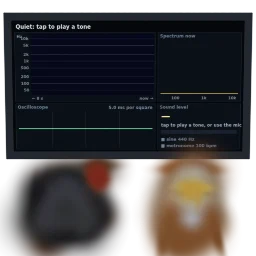
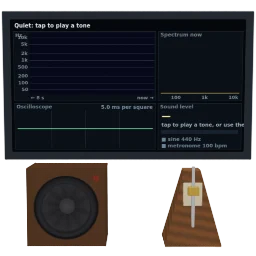
Phase Sound and light lab r2: a sharper Sound lab and recorder
Density 2, the sharp kernel and (labs) the one-pixel cull with the full
pixel ratio; the speaker, metronome and microphone rebuilt from exactly
sized splats, the speaker's cone visible through its baffle, larger
screen labels.

Claude-Session: https://claude.ai/code/session_01YTM8zwSihMFwvF1dY6fWH3

diff --git a/src/packs/sound-lab.js b/src/packs/sound-lab.js
@@ -21,7 +21,15 @@
 import { mix, shade, clamp } from "../kit.js";
 import { live, start as startLive, release as releaseLive } from "../live/live.js";
 import { MicRecorder, clock } from "./song-record.js";
-import { boxSplats, lit } from "../labs/splat-shapes.js";
+import {
+  boxSplats,
+  faceSplats,
+  lit,
+  budgetN,
+  surfSplats,
+  sphereSplats,
+  cylinderSplats,
+} from "../labs/splat-shapes.js";
 import { spectrogram } from "./studio-audio.js";
 import { WAVES, F_LO, F_HI, FULL_SCALE_SPL, toneSamples, spectrumDb, peakOf, rmsDb, splEstimate, beatHz, metronome, clickTimes, wavBytes, trimmed, soundSpan, logPos, logHz } from "../labs/sound-dsp.js"; // prettier-ignore
 
@@ -71,45 +79,6 @@ function panelSize(k, share, aspect, maxCols) {
   return { cols, rows: Math.round(cols / aspect) };
 }
 
-// A box made of even splats, lit softly from above and the front.
-function block(k, size, pos, base, { part = 0, weight = 1, rot } = {}) {
-  k.add(k.box(...size), {
-    pos,
-    rot,
-    part,
-    weight,
-    even: true,
-    jitter: 0.01,
-    color: (c) => shade(base, 0.72 + 0.2 * c.n[1] + 0.12 * c.n[2] + 0.04 * c.n[0]),
-  });
-}
-
-// A square frustum (a metronome's body): w0 × d0 at the bottom, w1 × d1 at
-// the top, h tall, its base at y0.
-function frustum(k, { w0, w1, d0, d1, h, y0 = 0, x = 0, z = 0, color, part = 0 }) {
-  const at = (u, y, side) => {
-    const t = y;
-    const w = w0 + (w1 - w0) * t;
-    const d = d0 + (d1 - d0) * t;
-    const a = (u - 0.5) * 2;
-    if (side === 0) return [x + (a * w) / 2, y0 + t * h, z + d / 2];
-    if (side === 1) return [x + (a * w) / 2, y0 + t * h, z - d / 2];
-    if (side === 2) return [x + w / 2, y0 + t * h, z + (a * d) / 2];
-    return [x - w / 2, y0 + t * h, z + (a * d) / 2];
-  };
-  for (let side = 0; side < 4; side++)
-    k.add(
-      k.param((u, v) => at(u, v, side), { grid: 24, flip: side === 1 || side === 2 }),
-      {
-        part,
-        even: true,
-        jitter: 0.012,
-        color: (c) => shade(color(c), 0.78 + 0.18 * c.n[2] + 0.1 * c.n[1] + 0.06 * c.n[0]),
-      },
-    );
-  k.add(k.box(w1, 0.01, d1), { pos: [x, y0 + h, z], part, color: (c) => shade(color(c), 1.05) }); // prettier-ignore
-}
-
 // ---- Drawing helpers -----------------------------------------------------------------
 
 // The spectrogram's colors: dark blue, violet, orange, pale yellow.
@@ -148,7 +117,7 @@ function box(g, r, title) {
   g.strokeStyle = "#1d2a38";
   g.lineWidth = 1;
   g.strokeRect(r.x + 0.5, r.y + 0.5, r.w - 1, r.h - 1);
-  if (title) label(g, title, r.x + 6, r.y + 14, { size: 12, color: "#6f8496" });
+  if (title) label(g, title, r.x + 6, r.y + 14, { size: 14, color: "#6f8496" });
 }
 
 // ---- The Sound lab --------------------------------------------------------------------
@@ -413,11 +382,11 @@ function drawSpectrogram(g, r) {
     const y = r.y + 4 + (1 - logPos(hz, ...F_AXIS)) * (r.h - 22);
     g.fillStyle = "rgba(255,255,255,0.18)";
     g.fillRect(r.x + ax, Math.round(y), r.w - ax - 4, 1);
-    label(g, hz >= 1000 ? `${hz / 1000}k` : String(hz), r.x + ax - 5, y + 4, { size: 11, align: "right", color: "#7d90a2" }); // prettier-ignore
+    label(g, hz >= 1000 ? `${hz / 1000}k` : String(hz), r.x + ax - 5, y + 4, { size: 13, align: "right", color: "#7d90a2" }); // prettier-ignore
   }
-  label(g, "Hz", r.x + 6, r.y + 15, { size: 11, color: "#7d90a2" });
-  label(g, `← ${COLS / COL_RATE} s`, r.x + ax + 2, r.y + r.h - 5, { size: 11, color: "#7d90a2" });
-  label(g, "now →", r.x + r.w - 6, r.y + r.h - 5, { size: 11, color: "#7d90a2", align: "right" });
+  label(g, "Hz", r.x + 6, r.y + 15, { size: 13, color: "#7d90a2" });
+  label(g, `← ${COLS / COL_RATE} s`, r.x + ax + 2, r.y + r.h - 5, { size: 13, color: "#7d90a2" });
+  label(g, "now →", r.x + r.w - 6, r.y + r.h - 5, { size: 13, color: "#7d90a2", align: "right" });
 }
 
 function drawSpectrum(g, r) {
@@ -447,7 +416,7 @@ function drawSpectrum(g, r) {
   g.stroke();
   for (const hz of [100, 1000, 10000]) {
     const x = x0 + logPos(hz, ...F_AXIS) * w;
-    label(g, hz >= 1000 ? `${hz / 1000}k` : String(hz), x, r.y + r.h - 6, { size: 11, align: "center", color: "#7d90a2" }); // prettier-ignore
+    label(g, hz >= 1000 ? `${hz / 1000}k` : String(hz), x, r.y + r.h - 6, { size: 13, align: "center", color: "#7d90a2" }); // prettier-ignore
   }
   if (SL.peak) {
     const x = x0 + logPos(clamp(SL.peak.hz, ...F_AXIS), ...F_AXIS) * w;
@@ -487,7 +456,7 @@ function drawScope(g, r) {
   g.lineWidth = 2;
   g.stroke();
   const ms = (span * 1000) / 4;
-  label(g, `${ms < 1 ? ms.toFixed(2) : ms.toFixed(1)} ms per square`, r.x + r.w - 8, r.y + 15, { size: 12, align: "right", color: "#7d90a2" }); // prettier-ignore
+  label(g, `${ms < 1 ? ms.toFixed(2) : ms.toFixed(1)} ms per square`, r.x + r.w - 8, r.y + 15, { size: 14, align: "right", color: "#7d90a2" }); // prettier-ignore
 }
 
 function drawLevel(g, r) {
@@ -501,8 +470,8 @@ function drawLevel(g, r) {
       ? `about ${Math.round(splEstimate(db, SL.fullScale))} dB SPL, uncalibrated`
       : "listening…";
   else if (SL.source === "tone") sub = "the generator's own level";
-  else sub = "tap to play a tone, or use the mic";
-  label(g, sub, r.x + 10, r.y + 64, { size: 12, color: "#9fb2c4" });
+  else sub = "tap for a tone, or use the mic";
+  label(g, sub, r.x + 10, r.y + 64, { size: 14, color: "#9fb2c4" });
   // A meter from −60 to 0 dBFS.
   const mx = r.x + 10;
   const mw = r.w - 20;
@@ -519,8 +488,8 @@ function drawLevel(g, r) {
   // The generator and the metronome.
   const t = SL.tone;
   const tone = t.wave === "noise" ? "noise" : t.two ? `${t.wave} ${hzText(t.f)} + ${hzText(t.f2)}, beats ${beatHz(t.f, t.f2).toFixed(1)} Hz` : `${t.wave} ${hzText(t.f)}`; // prettier-ignore
-  label(g, `${SL.toneOn ? "▶" : "■"} ${tone}`, r.x + 10, r.y + 104, { size: 12, color: SL.toneOn ? "#bfeaff" : "#6f8496" }); // prettier-ignore
-  label(g, `${SL.metroOn ? "▶" : "■"} metronome ${SL.bpm} bpm`, r.x + 10, r.y + 122, { size: 12, color: SL.metroOn ? "#bfeaff" : "#6f8496" }); // prettier-ignore
+  label(g, `${SL.toneOn ? "▶" : "■"} ${tone}`, r.x + 10, r.y + 104, { size: 14, color: SL.toneOn ? "#bfeaff" : "#6f8496" }); // prettier-ignore
+  label(g, `${SL.metroOn ? "▶" : "■"} metronome ${SL.bpm} bpm`, r.x + 10, r.y + 122, { size: 14, color: SL.metroOn ? "#bfeaff" : "#6f8496" }); // prettier-ignore
 }
 
 const SCRATCH = new Map();
@@ -661,7 +630,9 @@ const micStatus = () => {
 
 const SOUND_LAB = {
   alive: () => SL.toneOn || SL.metroOn || live.on("mic"),
-  density: 1.6,
+  density: 2, // r2: a higher budget and (labs) a sharper splat edge
+  kernel: "sharp",
+  render: { cull: "low", dpr: "native" },
   turntable: false,
   options: [
     {
@@ -738,26 +709,83 @@ const SOUND_LAB = {
     const { cols, rows } = panelSize(k, 0.5, SW / SH, SW);
     screenPanel(k, { center: [0, cy, 0.002], width: W, height: H, cols, rows });
     // The speaker (left): a cabinet, a cone that moves with the signal and a
-    // lamp that lights while the tone plays.
+    // lamp that lights while the tone plays. r2: every piece of exactly sized
+    // splats, so its edges stay crisp at phone size.
     const sx = -0.62;
     const sy = -0.8;
-    block(k, [0.78, 0.78, 0.36], [sx, sy, 0], "#5a3a24", {});
+    const wood = (base) => (u, v, n) => shade(mix(base, "#6c472c", 0.5 + 0.5 * Math.sin(v * 46 + u * 5)), 0.74 + 0.2 * n[1] + 0.1 * n[2] + 0.04 * n[0]); // prettier-ignore
+    boxSplats(k, { c: [sx, sy, 0], w: 0.78, h: 0.78, d: 0.36, skip: [4, 5], color: lit(shade, "#5a3a24") }); // prettier-ignore
+    // Its front, with the hole the driver sits in.
+    faceSplats(k, (u, v) => [sx + (u - 0.5) * 0.78, sy + (0.5 - v) * 0.78, 0.18], { nu: budgetN(k, 90), nv: budgetN(k, 90), n: [0, 0, 1], keep: (u, v) => Math.hypot(u - 0.5, v - 0.5) * 0.78 > 0.3, color: shade("#5a3a24", 0.86) }); // prettier-ignore
+    const fz = 0.181;
+    const ring = (r0, r1, z, color, part = 0) =>
+      surfSplats(k, (u, v) => { const r = r0 + (r1 - r0) * v; return [sx + r * Math.cos(u * 2 * Math.PI), sy + r * Math.sin(u * 2 * Math.PI), z]; }, () => [0, 0, 1], { nu: budgetN(k, 90), nv: budgetN(k, Math.max(3, Math.round(((r1 - r0) / 0.29) * 26))), color, part }); // prettier-ignore
+    ring(0.29, 0.31, fz, "#141416"); // the rim
+    ring(0.25, 0.29, fz + 0.004, (u, v) => shade("#232326", 0.8 + 0.35 * Math.sin(v * Math.PI))); // the rubber surround
     const cone = k.part("cone", { pivot: [sx, sy, 0.19] });
-    k.add(k.cone(0.27, 0.1, 0.1, { caps: false }), { pos: [sx, sy, 0.2], rot: [-90, 0, 0], part: cone, weight: 1.5, even: true, color: (c) => shade("#2b2b2e", 0.75 + 0.35 * (c.s.radial ?? 1)) }); // prettier-ignore
-    k.add(k.disc(0.27), { pos: [sx, sy, 0.181], rot: [90, 0, 0], color: "#1d1d20" });
-    k.add(k.sphere(0.07), { pos: [sx, sy, 0.24], part: cone, color: (c) => shade("#3a3a3e", 0.8 + 0.4 * c.n[1]) }); // prettier-ignore
-    k.add(k.torus(0.28, 0.018), { pos: [sx, sy, 0.19], rot: [90, 0, 0], color: "#141416" }); // prettier-ignore
+    // The cone: from the voice coil (r 0.07, set back 0.06) out to the surround.
+    surfSplats(
+      k,
+      (u, v) => {
+        const r = 0.07 + 0.18 * v;
+        return [
+          sx + r * Math.cos(u * 2 * Math.PI),
+          sy + r * Math.sin(u * 2 * Math.PI),
+          fz - 0.06 * (1 - v),
+        ];
+      },
+      (u) => [-0.32 * Math.cos(u * 2 * Math.PI), -0.32 * Math.sin(u * 2 * Math.PI), 0.95],
+      { nu: budgetN(k, 96), nv: budgetN(k, 22), part: cone, color: (u, v) => shade("#2b2b2e", 0.72 + 0.3 * v + 0.06 * Math.sin(u * 64)) }, // prettier-ignore
+    );
+    // The dust cap: a shallow dome over the coil.
+    surfSplats(
+      k,
+      (u, v) => {
+        const r = 0.07 * v;
+        return [
+          sx + r * Math.cos(u * 2 * Math.PI),
+          sy + r * Math.sin(u * 2 * Math.PI),
+          fz - 0.06 + 0.03 * Math.sqrt(1 - v * v),
+        ];
+      },
+      (u, v) => [0.5 * v * Math.cos(u * 2 * Math.PI), 0.5 * v * Math.sin(u * 2 * Math.PI), 1],
+      { nu: budgetN(k, 40), nv: budgetN(k, 8), part: cone, color: (u, v) => shade("#3a3a3e", 0.85 + 0.25 * (1 - v)) }, // prettier-ignore
+    );
     const lamp = k.part("lamp", { pivot: [sx + 0.3, sy + 0.3, 0.19] });
-    k.add(k.sphere(0.025), { pos: [sx + 0.3, sy + 0.3, 0.19], part: lamp, weight: 4, color: "#7a2a1a" }); // prettier-ignore
+    sphereSplats(k, { c: [sx + 0.3, sy + 0.3, 0.19], r: 0.025, n: budgetN(k, 24), part: lamp, color: "#7a2a1a" }); // prettier-ignore
     // The metronome (right): a wooden body and a rod that swings about its
     // foot, with the sliding weight.
     const mx = 0.66;
     const my = -1.2;
-    frustum(k, { w0: 0.56, w1: 0.16, d0: 0.34, d1: 0.12, h: 0.74, y0: my, x: mx, z: 0, color: (c) => mix("#7a4a26", "#9a6236", 0.5 + 0.5 * Math.sin(c.p[1] * 40 + c.p[0] * 6)) }); // prettier-ignore
-    block(k, [0.18, 0.5, 0.012], [mx, my + 0.38, 0.105], "#e9dcc0", {});
+    const fr = { w0: 0.56, w1: 0.16, d0: 0.34, d1: 0.12, h: 0.74 };
+    const at = (side, u, t) => {
+      const w = fr.w0 + (fr.w1 - fr.w0) * t;
+      const d = fr.d0 + (fr.d1 - fr.d0) * t;
+      const a = u - 0.5;
+      if (side === 0) return [mx + a * w, my + t * fr.h, d / 2];
+      if (side === 1) return [mx - a * w, my + t * fr.h, -d / 2];
+      if (side === 2) return [mx + w / 2, my + t * fr.h, -a * d];
+      return [mx - w / 2, my + t * fr.h, a * d];
+    };
+    const sideN = [
+      [0, (fr.d0 - fr.d1) / 2 / fr.h, 1],
+      [0, (fr.d0 - fr.d1) / 2 / fr.h, -1],
+      [1, (fr.w0 - fr.w1) / 2 / fr.h, 0],
+      [-1, (fr.w0 - fr.w1) / 2 / fr.h, 0],
+    ].map((v) => { const l = Math.hypot(...v); return v.map((x) => x / l); }); // prettier-ignore
+    for (let side = 0; side < 4; side++)
+      surfSplats(k, (u, v) => at(side, u, v), () => sideN[side], { nu: budgetN(k, side < 2 ? 48 : 30), nv: budgetN(k, 56), color: wood("#8a5530") }); // prettier-ignore
+    boxSplats(k, { c: [mx, my + fr.h + 0.006, 0], w: fr.w1, h: 0.012, d: fr.d1, color: lit(shade, "#9a6236") }); // prettier-ignore
+    boxSplats(k, {
+      c: [mx, my + 0.38, 0.105],
+      w: 0.18,
+      h: 0.5,
+      d: 0.012,
+      color: lit(shade, "#e9dcc0"),
+    }); // the scale
     const rod = k.part("rod", { pivot: [mx, my + 0.1, 0.13], axis: [0, 0, 1] });
-    block(k, [0.022, 0.7, 0.02], [mx, my + 0.1 + 0.35, 0.135], "#c9ccd2", { part: rod, weight: 3 }); // prettier-ignore
-    block(k, [0.1, 0.07, 0.05], [mx, my + 0.56, 0.15], "#d8b04a", { part: rod, weight: 3 });
+    boxSplats(k, { c: [mx, my + 0.1 + 0.35, 0.135], w: 0.02, h: 0.7, d: 0.016, gap: 0.006, part: rod, color: lit(shade, "#c9ccd2") }); // prettier-ignore
+    boxSplats(k, { c: [mx, my + 0.56, 0.15], w: 0.1, h: 0.07, d: 0.05, gap: 0.008, part: rod, color: lit(shade, "#d8b04a") }); // prettier-ignore
     k.reach([mx - 0.35, my + 0.8, 0.2]);
     k.reach([mx + 0.35, my + 0.8, 0.2]);
     k.data = { soundLab: true };
@@ -1136,7 +1164,7 @@ function drawRecorder(g) {
   }
   if (!t) return;
   label(g, t.name, 12, 22, { size: 15, color: "#e6eef5", weight: "700" });
-  label(g, `${t.duration.toFixed(2)} s · ${t.rate} Hz`, SW - 12, 22, { size: 13, color: "#9fb2c4", align: "right" }); // prettier-ignore
+  label(g, `${t.duration.toFixed(2)} s · ${t.rate} Hz`, SW - 12, 22, { size: 15, color: "#9fb2c4", align: "right" }); // prettier-ignore
   const wr = { x: 8, y: 32, w: SW - 16, h: 120 };
   const sr = { x: 8, y: 158, w: SW - 16, h: SH - 166 };
   box(g, wr, "");
@@ -1174,7 +1202,7 @@ function drawRecorder(g) {
     const y = sr.y + 2 + (1 - Math.log(hz / 40) / Math.log(16000 / 40)) * (sr.h - 4);
     g.fillStyle = "rgba(255,255,255,0.2)";
     g.fillRect(sr.x, Math.round(y), sr.w, 1);
-    label(g, hz >= 1000 ? `${hz / 1000} kHz` : `${hz} Hz`, sr.x + 6, y - 3, { size: 11, color: "#9fb2c4" }); // prettier-ignore
+    label(g, hz >= 1000 ? `${hz / 1000} kHz` : `${hz} Hz`, sr.x + 6, y - 3, { size: 13, color: "#9fb2c4" }); // prettier-ignore
   }
   // The trim marks and the play head.
   g.fillStyle = "#ffe9a8";
@@ -1191,7 +1219,9 @@ function drawRecorder(g) {
 
 const SOUND_RECORDER = {
   alive: () => !!REC.rec || !!REC.playing,
-  density: 1.6,
+  density: 2, // r2: a higher budget and (labs) a sharper splat edge
+  kernel: "sharp",
+  render: { cull: "low", dpr: "native" },
   turntable: false,
   controls: [{ key: "play", label: "Play", type: "pulse", ease: 0.3 }],
   action: { key: "play", label: "Play or stop the recording", quiet: ["play"] },
@@ -1237,22 +1267,28 @@ const SOUND_RECORDER = {
     screenPanel(k, { center: [0, cy, 0.002], width: W, height: H, cols, rows });
     // A studio microphone on a short stand, its lamp red while it records.
     const my = -1.18;
-    k.add(k.cylinder(0.2, 0.035), { pos: [0, my, 0], even: true, color: (c) => shade("#2c2e33", 0.8 + 0.3 * c.n[1]) }); // prettier-ignore
-    k.add(k.cylinder(0.018, 0.34), { pos: [0, my + 0.18, 0], weight: 2, color: (c) => shade("#8a8f98", 0.8 + 0.3 * c.n[0]) }); // prettier-ignore
-    k.add(k.cylinder(0.085, 0.2), { pos: [0, my + 0.44, 0], even: true, color: (c) => shade("#3a3d44", 0.85 + 0.25 * c.n[0] + 0.15 * c.n[2]) }); // prettier-ignore
-    k.add(k.sphere(0.1), {
-      pos: [0, my + 0.6, 0],
-      weight: 1.5,
-      even: true,
-      // The grille: a fine mesh of bright wires.
-      color: (c) => {
-        const a = Math.atan2(c.lp[2], c.lp[0]);
-        const wire = Math.abs(Math.sin(a * 14)) < 0.3 || Math.abs(Math.sin(c.lp[1] * 150)) < 0.3;
-        return shade(wire ? "#d5dae2" : "#6d737c", 0.85 + 0.25 * c.n[1]);
+    // r2: the microphone of exactly sized splats (a weighted base, a satin
+    // stem, the body and a wire-mesh grille), crisp at phone size.
+    const metal =
+      (base, k1 = 0.3) =>
+      (u, v, n) =>
+        shade(base, 0.82 + k1 * n[1] + 0.14 * n[2] + 0.08 * n[0]);
+    cylinderSplats(k, { c: [0, my, 0], r: 0.2, h: 0.035, n: budgetN(k, 120), color: metal("#2c2e33") }); // prettier-ignore
+    cylinderSplats(k, { c: [0, my + 0.18, 0], r: 0.018, h: 0.34, n: budgetN(k, 20), caps: "none", color: metal("#8a8f98", 0.1) }); // prettier-ignore
+    cylinderSplats(k, { c: [0, my + 0.44, 0], r: 0.085, h: 0.2, n: budgetN(k, 72), color: metal("#3a3d44", 0.15) }); // prettier-ignore
+    // The grille: a fine mesh of bright wires on a darker cage.
+    sphereSplats(k, {
+      c: [0, my + 0.6, 0],
+      r: 0.1,
+      n: budgetN(k, 96),
+      color: (u, v, n) => {
+        const wire =
+          Math.abs(Math.sin(u * Math.PI * 28)) < 0.3 || Math.abs(Math.sin(v * Math.PI * 16)) < 0.3;
+        return shade(wire ? "#d5dae2" : "#5d636c", 0.85 + 0.25 * n[1] + 0.1 * n[2]);
       },
     });
     const lamp = k.part("lamp", { pivot: [0, my + 0.44, 0.088] });
-    k.add(k.sphere(0.018), { pos: [0, my + 0.44, 0.088], part: lamp, weight: 4, color: "#5a1a14" }); // prettier-ignore
+    sphereSplats(k, { c: [0, my + 0.44, 0.088], r: 0.018, n: budgetN(k, 20), part: lamp, color: "#5a1a14" }); // prettier-ignore
     k.data = { recorder: true };
   },
 };

diff --git a/src/labs/splat-shapes.js b/src/labs/splat-shapes.js
@@ -104,3 +104,56 @@ export function faceSplats(
     (rand, i) => list[i] || null,
   );
 }
+
+// A curved surface f(u, v) (u, v in 0..1) covered by an nu × nv grid of flat
+// splats, each facing nrm(u, v) and sized to its own cell (so a sphere's
+// splats shrink toward its poles); `color(u, v, n)` colors it.
+export function surfSplats(k, f, nrm, { nu, nv, color, opacity = 1, part = 0, keep = null }) {
+  const list = [];
+  const dist = (a, b) => Math.hypot(a[0] - b[0], a[1] - b[1], a[2] - b[2]);
+  for (let i = 0; i < nu; i++)
+    for (let j = 0; j < nv; j++) {
+      const u = (i + 0.5) / nu;
+      const v = (j + 0.5) / nv;
+      if (keep && !keep(u, v)) continue;
+      const p = f(u, v);
+      const du = dist(f(u - 0.5 / nu, v), f(u + 0.5 / nu, v));
+      const dv = dist(f(u, v - 0.5 / nv), f(u, v + 0.5 / nv));
+      const s = Math.max(1e-4, Math.max(du, dv) * 0.62);
+      const n = nrm(u, v);
+      list.push({ p, scales: [s, s, s * 0.05], quat: quatToNormal(n), color: typeof color === "function" ? color(u, v, n) : color, opacity, part, pattern: false }); // prettier-ignore
+    }
+  k.cloud(
+    { share: list.length / k.count, pattern: false, jitter: 0 },
+    (rand, i) => list[i] || null,
+  );
+}
+
+const unit3 = (v) => {
+  const l = Math.hypot(v[0], v[1], v[2]) || 1;
+  return [v[0] / l, v[1] / l, v[2] / l];
+};
+
+// A cylinder along the axis `dir` ("y" or "z") at c, radius r, length h,
+// with its end caps (`caps`: "both", "front" for +axis only, or "none").
+export function cylinderSplats(k, { c, r, h, axis = "y", n = 48, caps = "both", color, part = 0 }) {
+  const toWorld = (x, a, y) => (axis === "y" ? [c[0] + x, c[1] + a, c[2] + y] : [c[0] + x, c[1] + y, c[2] + a]); // prettier-ignore
+  const toN = (x, a, y) => (axis === "y" ? [x, a, y] : [x, y, a]);
+  const around = Math.max(12, n);
+  const along = Math.max(2, Math.round((around * h) / (2 * Math.PI * r)));
+  surfSplats(k, (u, v) => toWorld(r * Math.cos(u * 2 * Math.PI), (v - 0.5) * h, r * Math.sin(u * 2 * Math.PI)), (u) => toN(Math.cos(u * 2 * Math.PI), 0, Math.sin(u * 2 * Math.PI)), { nu: around, nv: along, color, part }); // prettier-ignore
+  for (const side of caps === "none" ? [] : caps === "front" ? [1] : [1, -1]) {
+    const rings = Math.max(2, Math.round(around / 6));
+    surfSplats(k, (u, v) => toWorld(r * v * Math.cos(u * 2 * Math.PI), (side * h) / 2, r * v * Math.sin(u * 2 * Math.PI)), () => toN(0, side, 0), { nu: around, nv: rings, color, part }); // prettier-ignore
+  }
+}
+
+// A sphere at c of radius r (n splats around its equator).
+export function sphereSplats(k, { c, r, n = 48, color, part = 0 }) {
+  const at = (u, v) => {
+    const th = u * 2 * Math.PI;
+    const ph = v * Math.PI;
+    return [Math.sin(ph) * Math.cos(th), Math.cos(ph), Math.sin(ph) * Math.sin(th)];
+  };
+  surfSplats(k, (u, v) => at(u, v).map((x, i) => c[i] + r * x), (u, v) => unit3(at(u, v)), { nu: n, nv: Math.max(6, Math.round(n / 2)), color, part }); // prettier-ignore
+}

diff --git a/docs/handoff/SoundLightLab.md b/docs/handoff/SoundLightLab.md
@@ -42,6 +42,15 @@ full checks are next.
 - Tone, tempo and the lamp are kept in the module, not in the scene (dragging a slider would
   otherwise rebuild the toy each step).
 
+- r2 (the Operator's notes of October 5, 2026, 14:10 and 15:40 UTC; on
+  `claude/lane-sound-light-lab-r2`, waiting for #286 to merge): every toy sharper. The Light lab:
+  density 2, finer rays and beams, thinner prism edges, finer prism faces, disc and slide, larger
+  panel caps. The Sound lab and the recorder: density 2, the sharp kernel, the speaker, metronome
+  and microphone rebuilt from exactly sized splats (`surfSplats`, `cylinderSplats`, `sphereSplats`),
+  the speaker's cone, surround and dust cap visible through a hole in the baffle, larger screen
+  labels. All three (labs only) set `render: { cull: "low", dpr: "native" }`: the engine's two-pixel
+  cull hid the finer splats at the high tier.
+
 ## Known issues
 
 - In headless Chromium the player's clock runs slower than real time, so the spectrogram fills
